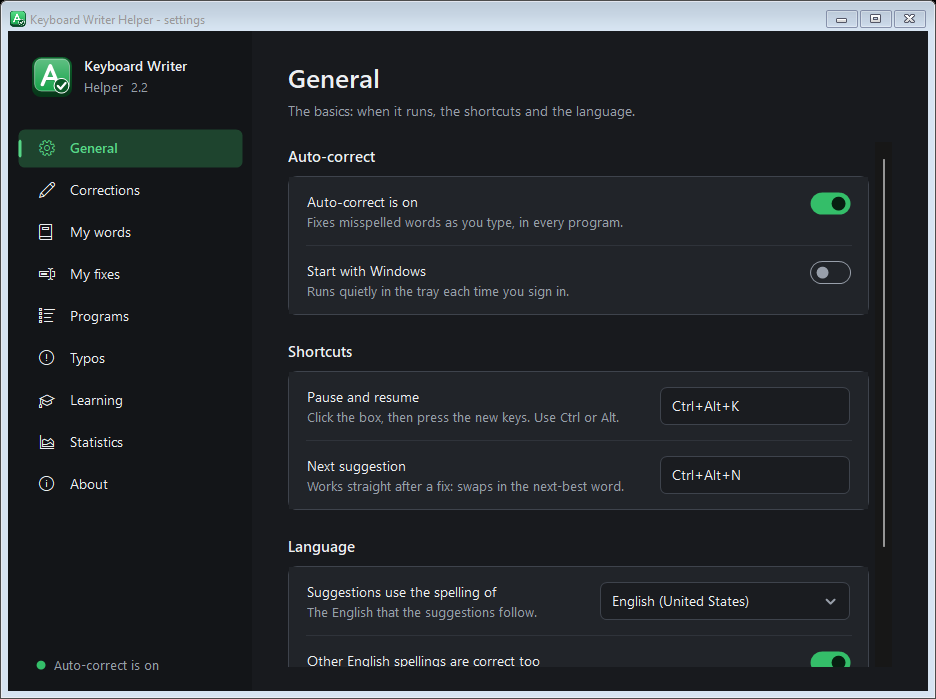
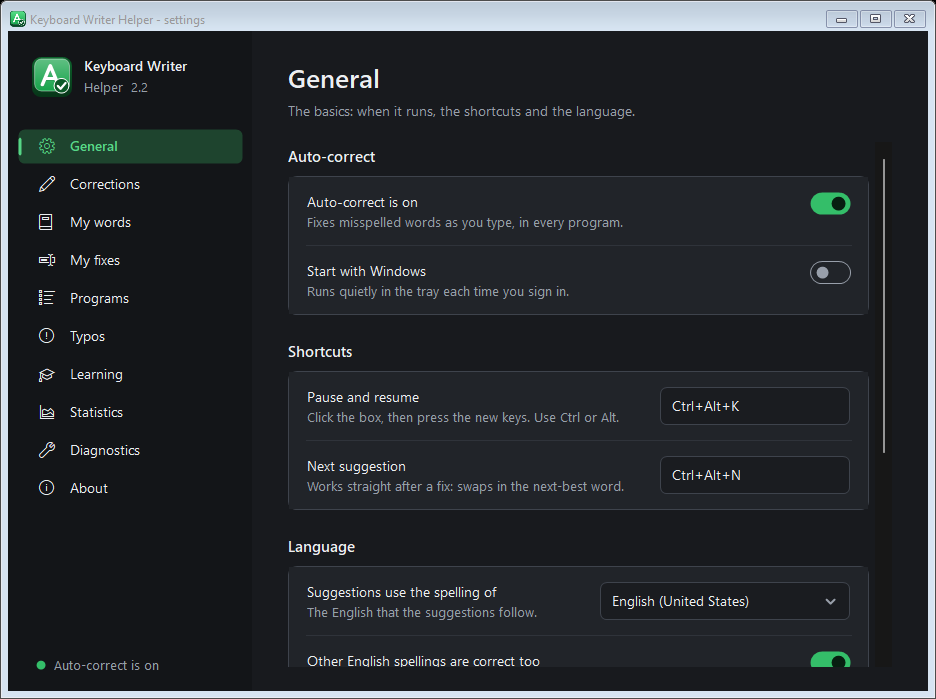
Changelog for the new features; installer test skips when the app is running; screenshots

Changed region(s): [[0.031, 0.1803, 0.2479, 0.6009], [0.031, 0.6309, 0.1549, 0.721]]

diff --git a/CHANGELOG.md b/CHANGELOG.md
@@ -15,6 +15,21 @@ Newest first. Versions 1.1 to 1.10, then 2.1, 2.2... (see `version.txt`).
   problems, confirmations) use the same colours and type, instead of the grey Windows boxes.
 - **New logo**: a green keycap with an A and a check badge, drawn from shapes so it is sharp at every size.
   Used for the app icon, the tray icon (green, grey or amber), the settings window and the installer.
+- **Settings > Diagnostics**: whether the app is seeing your keys, which programs were skipped and why,
+  where it runs (including "runs as administrator"), and a **Copy report** button for bug reports. It holds
+  numbers and program names only. Errors the app caught are also written to an error log you can open there.
+- **Careful programs** (Settings > Programs): in the programs you list, only clear spelling mistakes are fixed,
+  when you press Space: no grammar or phrase changes, no capitals, no symbols, no suggestion bar.
+- **Where the suggestion bar appears** is a setting: bottom left (the new default), bottom right, top left or top right.
+- **Back up**: save My words, My fixes and your program lists to one text file, and load them on another PC.
+- A short **welcome** the first time it runs, instead of a balloon that disappears.
+- More Hindi words typed in English letters are left alone.
+- The settings window has an automatic **layout test** (every page at three window sizes). It found and fixed
+  buttons running past the edge, a sideways scrollbar, and a side menu that did not fit a small window.
+- **Licence**: PolyForm Noncommercial 1.0.0. Free for personal and non-commercial use with credit and a link to
+  the repository; no commercial use. Contributing guide, issue templates and a release checklist are new too.
+- Packaging for **winget** and **Scoop** can be generated from a release (`packaging\make-manifests.ps1`), and the
+  release workflow signs the exe and the installer when a certificate is added as a repository secret.
 - About shows who made the app.
 - **Installer.** There are now two downloads: the portable exe as before, and a setup
   (`KeyboardWriterHelper-Setup-<version>.exe`) with a welcome picture, a "before you install"
